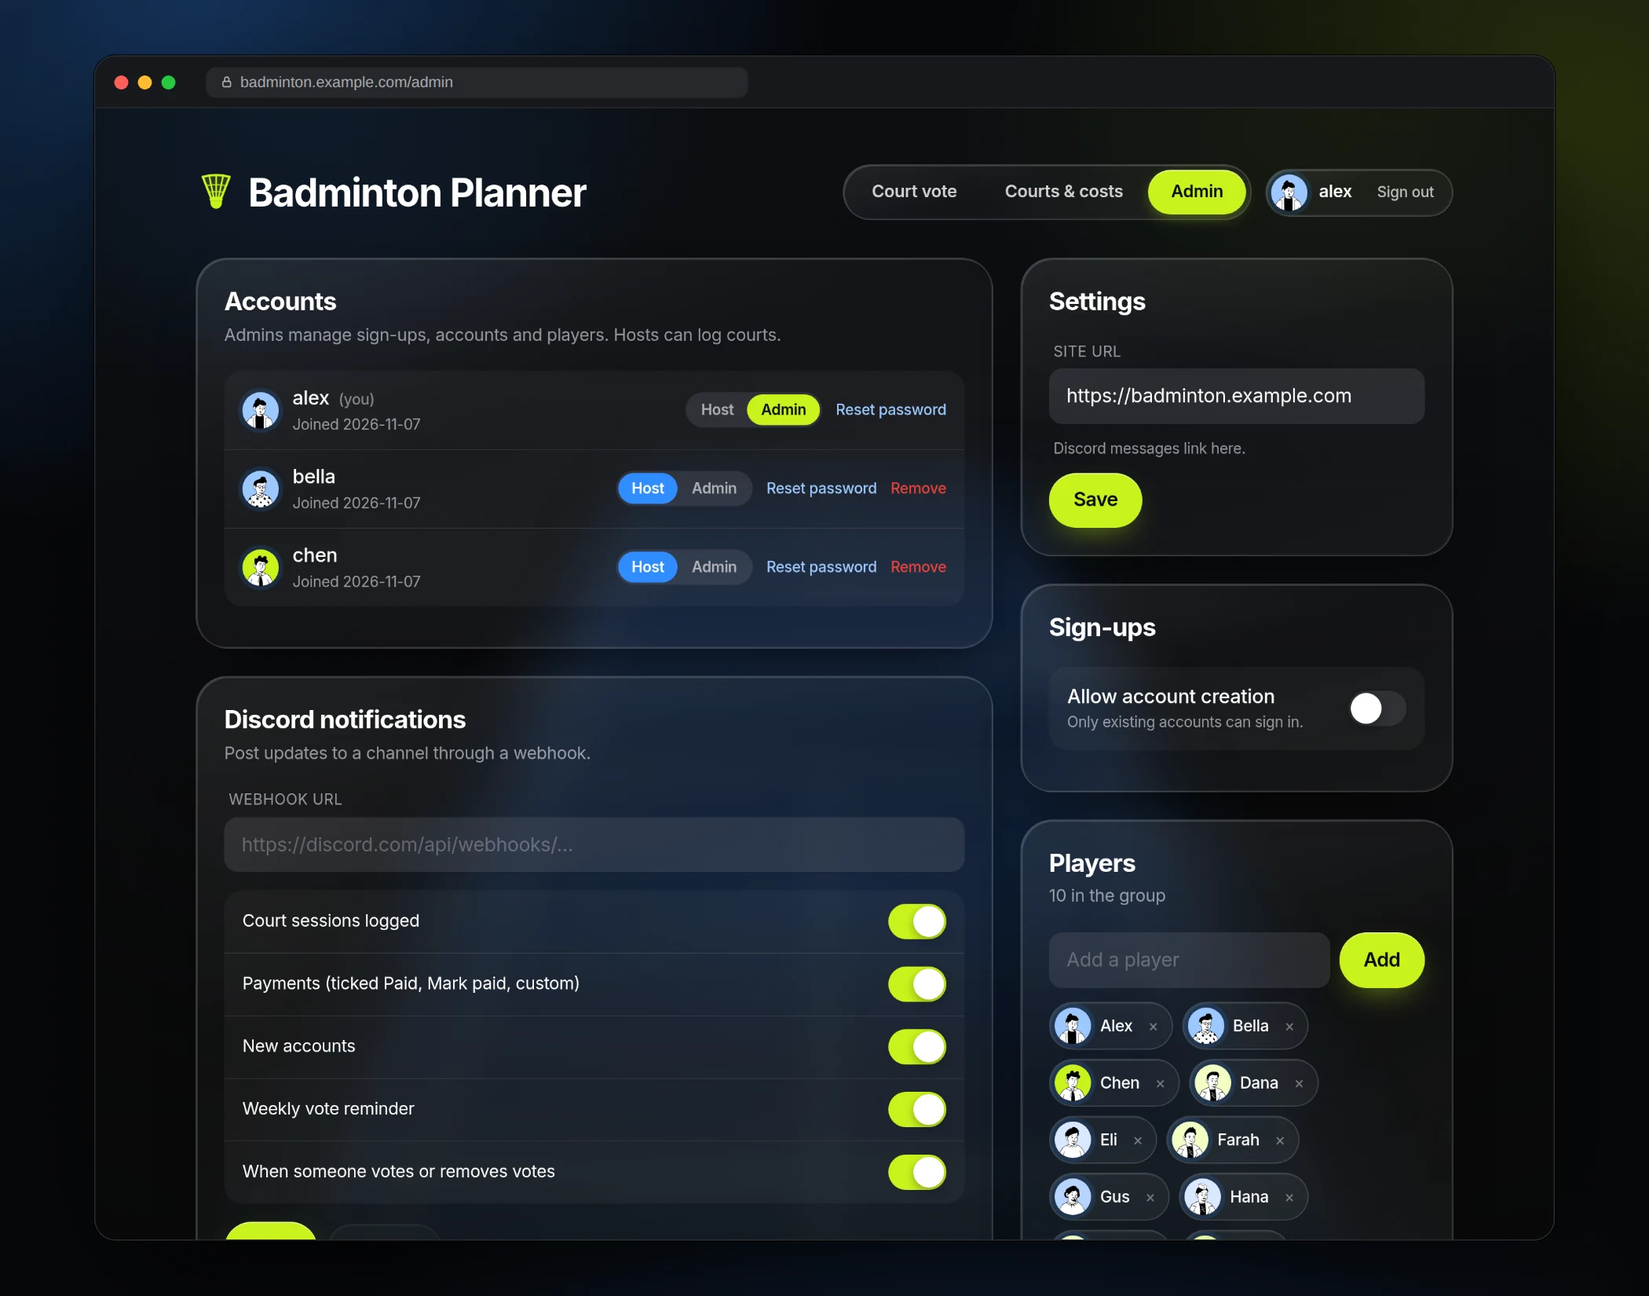
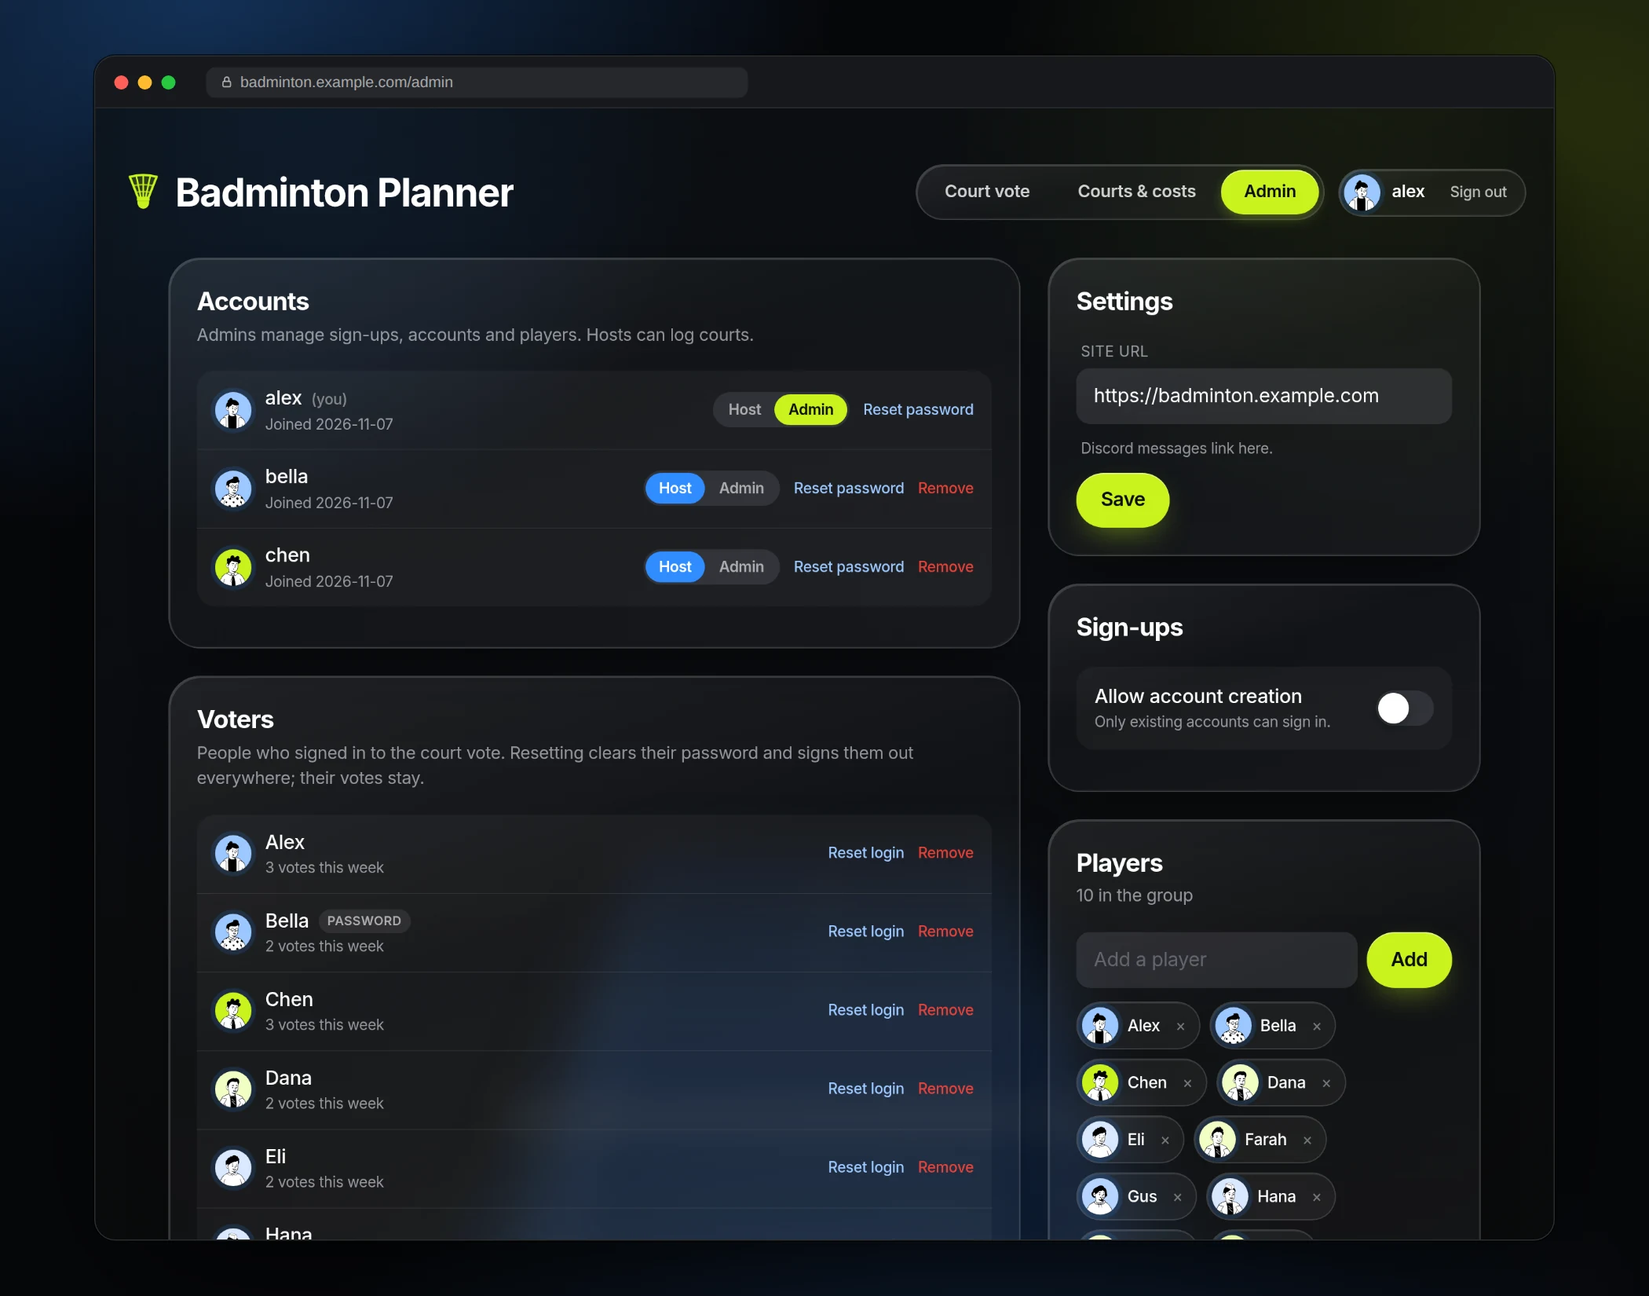
gradient and better desktop experience

diff --git a/components/VoteGrid.tsx b/components/VoteGrid.tsx
@@ -8,6 +8,28 @@ import { Avatar } from "./ui";
 
 type Toggle = { day: number; slot: SlotId; on: boolean };
 
+// Heat scale: blue (few votes) → teal → lime (everyone).
+const STOPS: [number, [number, number, number]][] = [
+  [0, [47, 140, 255]],
+  [0.5, [32, 201, 151]],
+  [1, [200, 243, 29]],
+];
+
+/** Fill for a slot where `ratio` = share of this week's voters who picked it. */
+export function heat(ratio: number): { background: string; dark: boolean } {
+  if (ratio <= 0) return { background: "rgb(255 255 255 / 0.025)", dark: false };
+  const r = Math.min(1, ratio);
+  const i = r <= STOPS[1][0] ? 0 : 1;
+  const [a, ca] = STOPS[i];
+  const [b, cb] = STOPS[i + 1];
+  const t = (r - a) / (b - a);
+  const [red, green, blue] = ca.map((c, k) => Math.round(c + (cb[k] - c) * t));
+  const alpha = 0.2 + 0.8 * r;
+  return { background: `rgb(${red} ${green} ${blue} / ${alpha.toFixed(2)})`, dark: r >= 0.7 };
+}
+
+const LEGEND = `linear-gradient(90deg, ${[0.15, 0.5, 1].map((r) => heat(r).background).join(", ")})`;
+
 export function VoteGrid({ week, today, votes, me }: { week: string; today: string; votes: Vote[]; me: Voter | null }) {
   const [pending, startTransition] = useTransition();
   const [optimistic, apply] = useOptimistic(votes, (current: Vote[], t: Toggle) =>
@@ -30,6 +52,18 @@ export function VoteGrid({ week, today, votes, me }: { week: string; today: stri
 
   return (
     <div className={`space-y-2.5 ${pending ? "cursor-progress" : ""}`}>
+      <div className="flex flex-wrap items-center justify-between gap-x-4 gap-y-2 px-1 pb-1 text-[12px] text-white/55">
+        <span className="flex items-center gap-2">
+          Fewer
+          <span aria-hidden className="h-2.5 w-28 rounded-full" style={{ background: LEGEND }} />
+          More votes
+        </span>
+        {me && (
+          <span className="flex items-center gap-1.5">
+            <span aria-hidden className="h-3 w-3 rounded-[4px] border-2 border-volt" /> Your picks
+          </span>
+        )}
+      </div>
       <div className="grid grid-cols-[64px_1fr_1fr] gap-2.5 px-1 text-center text-xs font-medium uppercase tracking-wider text-white/40 sm:grid-cols-[76px_1fr_1fr]">
         <span />
         {SLOTS.map((s) => <span key={s.id}>{s.label}</span>)}
@@ -58,6 +92,7 @@ export function VoteGrid({ week, today, votes, me }: { week: string; today: stri
               const mine = !!me && people.some((p) => p.voterId === me.id);
               const ratio = voterCount ? people.length / voterCount : 0;
               const top = people.length > 0 && people.length === best;
+              const fill = heat(ratio);
               return (
                 <button
                   key={s.id}
@@ -66,32 +101,37 @@ export function VoteGrid({ week, today, votes, me }: { week: string; today: stri
                   onClick={() => onToggle(d, s.id, !mine)}
                   aria-pressed={mine}
                   aria-label={`${dayName} ${s.label}: ${people.length} available${mine ? ", including you" : ""}`}
-                  style={mine ? undefined : { backgroundColor: `rgb(47 140 255 / ${people.length ? 0.08 + ratio * 0.3 : 0.025})` }}
+                  style={{ background: fill.background }}
                   className={`flex min-h-[92px] flex-col justify-between gap-2 rounded-[26px] border p-3 text-left transition disabled:cursor-default sm:p-3.5 ${
+                    fill.dark ? "text-ink" : "text-white"
+                  } ${
                     mine
-                      ? "border-volt bg-volt text-ink shadow-[0_12px_30px_-12px_rgb(200_243_29/0.6)]"
+                      ? "border-volt ring-2 ring-volt/60 ring-offset-2 ring-offset-[rgb(21_24_31)] shadow-[0_12px_30px_-12px_rgb(200_243_29/0.6)]"
                       : "border-white/8 enabled:hover:border-white/25"
                   }`}
                 >
                   <span className="flex w-full items-start justify-between gap-2">
                     <span className="font-rounded text-3xl font-semibold leading-none tracking-[-0.02em] tabular-nums">{people.length}</span>
-                    {top && (
-                      <span
-                        className={`flex items-center gap-1 rounded-full px-2 py-1 text-[10px] font-bold uppercase tracking-wider ${
-                          mine ? "bg-ink/90 text-volt" : "bg-black/40 text-volt"
-                        }`}
-                      >
-                        <span className="h-1.5 w-1.5 rounded-full bg-volt" />
-                        Top
-                      </span>
-                    )}
+                    <span className="flex flex-wrap justify-end gap-1">
+                      {mine && (
+                        <span className={`rounded-full px-2 py-1 text-[10px] font-bold uppercase tracking-wider ${fill.dark ? "bg-ink text-volt" : "bg-volt text-ink"}`}>
+                          ✓ You
+                        </span>
+                      )}
+                      {top && (
+                        <span className="flex items-center gap-1 rounded-full bg-ink/85 px-2 py-1 text-[10px] font-bold uppercase tracking-wider text-volt">
+                          <span className="h-1.5 w-1.5 rounded-full bg-volt" />
+                          Top
+                        </span>
+                      )}
+                    </span>
                   </span>
                   <span className="flex flex-wrap gap-1">
                     {people.map((p) => (
                       <span
                         key={p.voterId}
                         className={`flex items-center gap-1 rounded-full py-0.5 pl-0.5 pr-2 text-[11px] font-medium leading-tight ${
-                          mine ? "bg-ink/12 text-ink" : "bg-cobalt/25 text-cobalt-soft"
+                          fill.dark ? "bg-ink/12 text-ink" : "bg-black/25 text-white/90"
                         }`}
                       >
                         <Avatar name={p.name} size="xs" />

diff --git a/components/AttendanceGrid.tsx b/components/AttendanceGrid.tsx
@@ -110,10 +110,10 @@ export function AttendanceGrid({
             <table className="w-max min-w-full border-separate border-spacing-0 text-sm">
               <thead>
                 <tr className="text-left text-[13px] uppercase tracking-wide text-[rgb(235_235_245/0.6)]">
-                  <th className={`${sticky} min-w-[124px] py-2 pl-5 pr-2 font-medium sm:min-w-[150px] sm:pl-6 sm:pr-3`}>Session</th>
+                  <th className={`${sticky} min-w-[124px] py-2 pl-5 pr-2 font-medium sm:min-w-[150px] sm:pl-6 sm:pr-3 lg:min-w-[230px]`}>Session</th>
                   <th className="hidden px-2 py-2 font-medium sm:table-cell" />
                   {players.map((p) => (
-                    <th key={p.id} className="min-w-[60px] px-1 py-2 text-center font-semibold normal-case tracking-normal text-white">
+                    <th key={p.id} className="min-w-[60px] px-1 py-2 text-center lg:min-w-[84px] lg:px-2 font-semibold normal-case tracking-normal text-white">
                       <div className="flex flex-col items-center gap-1">
                         <Avatar name={p.name} size="sm" />
                         {p.name}
@@ -128,7 +128,7 @@ export function AttendanceGrid({
                   {players.map((p) => {
                     const cents = owed.get(p.id) ?? 0;
                     return (
-                      <td key={p.id} className={`px-1 py-2.5 text-center font-rounded font-semibold tabular-nums ${cents ? "text-live" : "text-white/35"}`}>
+                      <td key={p.id} className={`px-1 py-2.5 text-center font-rounded lg:px-2 font-semibold tabular-nums ${cents ? "text-live" : "text-white/35"}`}>
                         {formatMoney(cents)}
                       </td>
                     );
@@ -143,7 +143,7 @@ export function AttendanceGrid({
                     <tr key={s.id} className="align-middle">
                       <td className={`${sticky} border-t border-white/8 py-3 pl-5 pr-2 sm:pl-6 sm:pr-3`}>
                         <div className="font-semibold tabular-nums">{s.date}</div>
-                        <div className="max-w-[110px] truncate text-xs text-white/50 sm:max-w-[160px]">{s.venue} · {s.courts}×{s.hours}h</div>
+                        <div className="max-w-[110px] truncate text-xs text-white/50 sm:max-w-[160px] lg:max-w-[260px]">{s.venue} · {s.courts}×{s.hours}h</div>
                         <div className="mt-1 text-xs tabular-nums text-white/70">
                           {formatMoney(s.costCents)} · <span className="text-volt">{formatMoney(each)} each</span>
                         </div>
@@ -158,7 +158,7 @@ export function AttendanceGrid({
                         const host = p.id === s.paidBy;
                         const paid = s.paidIds.includes(p.id);
                         return (
-                          <td key={p.id} className="border-t border-white/8 px-1 py-3">
+                          <td key={p.id} className="border-t border-white/8 px-1 py-3 lg:px-2 lg:py-3.5">
                             <div className="flex flex-col items-center gap-1.5">
                               <Check
                                 tone="played"

diff --git a/components/LoginForm.tsx b/components/LoginForm.tsx
@@ -20,7 +20,7 @@ export function LoginForm({ firstAccount, signupsOpen }: { firstAccount: boolean
           title="Create the admin account"
           subtitle="You're the first one here, so this account will manage hosts, players and sign-ups."
         >
-          <SignUpFields action={upAction} pending={upPending} error={upState?.error} cta="Create admin account" />
+          <SignUpFields action={upAction} pending={upPending} error={upState?.error} username={upState?.username} cta="Create admin account" />
         </Card>
       </>
     );
@@ -50,7 +50,7 @@ export function LoginForm({ firstAccount, signupsOpen }: { firstAccount: boolean
         {mode === "in" ? (
           <form action={inAction} className="space-y-4">
             <Field label="Username">
-              <input name="username" className="glass-input" autoComplete="username" required autoFocus />
+              <input name="username" defaultValue={inState?.username} className="glass-input" autoComplete="username" required autoFocus />
             </Field>
             <Field label="Password">
               <input name="password" type="password" className="glass-input" autoComplete="current-password" required />
@@ -61,7 +61,7 @@ export function LoginForm({ firstAccount, signupsOpen }: { firstAccount: boolean
             </button>
           </form>
         ) : signupsOpen ? (
-          <SignUpFields action={upAction} pending={upPending} error={upState?.error} cta="Create account" />
+          <SignUpFields action={upAction} pending={upPending} error={upState?.error} username={upState?.username} cta="Create account" />
         ) : (
           <p className="rounded-2xl bg-white/[0.04] px-4 py-6 text-center text-[15px] text-white/60">
             Account creation is turned off. Ask an admin to turn it on.
@@ -76,11 +76,13 @@ function SignUpFields({
   action,
   pending,
   error,
+  username,
   cta,
 }: {
   action: (form: FormData) => void;
   pending: boolean;
   error?: string;
+  username?: string;
   cta: string;
 }) {
   return (
@@ -88,6 +90,7 @@ function SignUpFields({
       <Field label="Username">
         <input
           name="username"
+          defaultValue={username}
           className="glass-input"
           autoComplete="username"
           required

diff --git a/app/login/actions.ts b/app/login/actions.ts
@@ -7,7 +7,8 @@ import { accountCount, endSession, signupsEnabled, startSession } from "@/lib/au
 import { checkPassword, hashPassword } from "@/lib/passwords";
 import { notify } from "@/lib/discord";
 
-export type AuthState = { error?: string } | undefined;
+/** `username` is echoed back so the form can keep it after an error. */
+export type AuthState = { error?: string; username?: string } | undefined;
 
 const USERNAME = /^[A-Za-z0-9._-]{3,32}$/;
 // Used when the username doesn't exist, so a failed login takes the same time.
@@ -21,7 +22,7 @@ export async function signIn(_: AuthState, form: FormData): Promise<AuthState> {
     .get(username) as { id: number; hash: string } | undefined;
 
   const ok = checkPassword(password, row?.hash ?? DUMMY_HASH) && !!row;
-  if (!ok) return { error: "Wrong username or password." };
+  if (!ok) return { error: "Wrong username or password.", username };
 
   await startSession(row.id);
   redirect("/");
@@ -33,9 +34,9 @@ export async function signUp(_: AuthState, form: FormData): Promise<AuthState> {
   const confirm = String(form.get("confirm") ?? "");
 
   if (!USERNAME.test(username))
-    return { error: "Usernames are 3–32 letters, numbers, dots, dashes or underscores." };
-  if (password.length < 8) return { error: "Use a password of at least 8 characters." };
-  if (password !== confirm) return { error: "The passwords don't match." };
+    return { error: "Usernames are 3–32 letters, numbers, dots, dashes or underscores.", username };
+  if (password.length < 8) return { error: "Use a password of at least 8 characters.", username };
+  if (password !== confirm) return { error: "The passwords don't match.", username };
 
   let id: number;
   try {
@@ -49,7 +50,7 @@ export async function signUp(_: AuthState, form: FormData): Promise<AuthState> {
     });
   } catch (e) {
     const msg = e instanceof Error ? e.message : String(e);
-    return { error: msg.includes("UNIQUE") ? "That username is taken." : msg };
+    return { error: msg.includes("UNIQUE") ? "That username is taken." : msg, username };
   }
 
   notify("accounts", () => ({ title: `👋 New account: ${username}`, description: "They can now log courts.", path: "/admin" }));

diff --git a/app/vote/actions.ts b/app/vote/actions.ts
@@ -8,7 +8,8 @@ import { queueVoteNotification } from "@/lib/discord";
 import { isIsoDate, mondayOf, SLOTS } from "@/lib/dates";
 import { checkPassword, getCurrentVoter, hashPassword, newToken, VOTER_COOKIE } from "@/lib/voters";
 
-export type SignInState = { error?: string } | undefined;
+/** `name` is echoed back so the form can keep it after an error. */
+export type SignInState = { error?: string; name?: string } | undefined;
 
 const ONE_YEAR = 60 * 60 * 24 * 365;
 
@@ -16,7 +17,7 @@ export async function signIn(_: SignInState, form: FormData): Promise<SignInStat
   const name = String(form.get("name") ?? "").trim();
   const password = String(form.get("password") ?? "");
   if (!name) return { error: "Enter your name." };
-  if (name.length > 40) return { error: "Keep your name under 40 characters." };
+  if (name.length > 40) return { error: "Keep your name under 40 characters.", name };
 
   const existing = db
     .prepare("SELECT id, password_hash AS hash, token FROM voters WHERE name = ?")
@@ -26,7 +27,7 @@ export async function signIn(_: SignInState, form: FormData): Promise<SignInStat
   if (existing) {
     // Same as when2meet: a name without a password can be picked up by anyone.
     if (existing.hash && !checkPassword(password, existing.hash)) {
-      return { error: `Wrong password for “${name}”. Ask an admin to reset it if you've forgotten.` };
+      return { error: `Wrong password for “${name}”. Ask an admin to reset it if you've forgotten.`, name };
     }
     // No password yet (new, or reset by an admin): whoever signs in can set one now.
     if (!existing.hash && password) {

diff --git a/components/SignInPanel.tsx b/components/SignInPanel.tsx
@@ -29,7 +29,7 @@ export function SignInPanel({ me }: { me: Voter | null }) {
     <Card title="Sign in to vote" subtitle="No account needed. Just pick a name for this browser.">
       <form action={action} className="space-y-3">
         <Field label="Your name">
-          <input name="name" className="glass-input" autoComplete="nickname" required maxLength={40} />
+          <input name="name" defaultValue={state?.name} className="glass-input" autoComplete="nickname" required maxLength={40} />
         </Field>
         <Field label="Password (optional)">
           <input name="password" type="password" className="glass-input" autoComplete="current-password" />

diff --git a/app/layout.tsx b/app/layout.tsx
@@ -20,7 +20,7 @@ export default function RootLayout({ children }: LayoutProps<"/">) {
     <html lang="en" className={`${inter.variable} h-full antialiased`}>
       <body className="relative min-h-full font-sans">
         <CourtBackground />
-        <main className="mx-auto w-full max-w-6xl px-4 pb-32 pt-8 sm:px-6 sm:pb-12 sm:pt-12">
+        <main className="mx-auto w-full max-w-[1480px] px-4 pb-32 pt-8 sm:px-6 sm:pb-12 sm:pt-12">
           <header className="mb-8 flex items-center justify-between gap-4">
             <div className="flex min-w-0 items-center gap-2 sm:gap-2.5">
               <ShuttleIcon className="h-8 w-8 shrink-0 sm:h-9 sm:w-9" />

diff --git a/app/vote/page.tsx b/app/vote/page.tsx
@@ -37,7 +37,7 @@ async function Vote({ searchParams }: Pick<PageProps<"/vote">, "searchParams">) 
   const weekLink = (w: string) => (w === current ? "/vote" : `/vote?week=${w}`);
 
   return (
-    <div className="grid gap-6 lg:grid-cols-[1fr_360px]">
+    <div className="mx-auto grid max-w-6xl gap-6 lg:grid-cols-[1fr_360px]">
       <Card
         title="When should we book courts?"
         subtitle={`${voters.length} ${voters.length === 1 ? "person has" : "people have"} voted this week`}

diff --git a/app/page.tsx b/app/page.tsx
@@ -38,7 +38,7 @@ async function Dashboard() {
     <div className="space-y-6">
       <AttendanceGrid sessions={sessions} players={players} canEdit={canEdit} isAdmin={account?.role === "admin"} />
 
-      <div className="grid gap-6 lg:grid-cols-[1fr_360px]">
+      <div className="grid gap-6 lg:grid-cols-[1fr_400px]">
         <BalancesTable balances={balances} />
         <SettleUp transfers={transfers} players={players} today={today} canEdit={canEdit} />
       </div>

diff --git a/app/admin/page.tsx b/app/admin/page.tsx
@@ -62,7 +62,7 @@ async function Admin() {
   }));
 
   return (
-    <div className="grid gap-6 lg:grid-cols-[1fr_380px]">
+    <div className="mx-auto grid max-w-6xl gap-6 lg:grid-cols-[1fr_380px]">
       <div className="min-w-0 space-y-6">
         <AccountsPanel accounts={accounts} meId={me.id} />
         <VotersPanel voters={voters} />

diff --git a/README.md b/README.md
@@ -6,13 +6,13 @@ Vote on court times, log court bookings, and keep track of who owes whom. Built 
 
 ## Features
 
-- **Court vote** (`/vote`): a when2meet-style poll for Mon–Fri, 7–9 pm or 8–10 pm. Anyone can vote by signing in with just a name and an optional password; no account is needed.
+- **Court vote** (`/vote`): a when2meet-style poll for Mon–Fri, 7–9 pm or 8–10 pm. Anyone can vote by signing in with just a name and an optional password; no account is needed. Slots are coloured from blue to lime as more people pick them.
 - **Court log checklist**: like the old spreadsheet. Each session has a *Played* and a *Paid* checkbox per person, and a **Total owed** row adds up each person's unpaid shares. Ticking *Paid* counts as paying that share back to the host (whoever booked).
 - **Money owed**, **Settle up** (the fewest payments that clear every balance) and **payment history**.
 - **Accounts**:
   - The first account created becomes the **admin**.
   - Any signed-in account (a **host**) can log courts and tick boxes.
-  - Admins manage accounts, players, whether new accounts can be created, and Discord notifications. They can also **edit a logged session's details** (date, venue, courts, hours, cost, who paid, notes) from the court log.
+  - Admins manage accounts, players, whether new accounts can be created, and Discord notifications. They can also **edit a logged session's details** (date, venue, courts, hours, cost, who paid, notes) from the court log, and **reset voting logins**: this clears a voter's password and signs them out everywhere (their votes are kept), or removes the voter along with their votes.
   - Visitors who aren't signed in see the costs page read-only.
 - **Profile pictures** are generated from a SHA-256 hash of each person's name, so the same name always gets the same face. They use [Notionists](https://heyzoish.gumroad.com/l/notionists) by Zoish (CC0) via DiceBear.
 - **Discord notifications**: an admin pastes a webhook URL and picks which events to post:
@@ -25,7 +25,7 @@ Vote on court times, log court bookings, and keep track of who owes whom. Built 
 
 ## Screenshots
 
-**Court vote.** A when2meet-style poll. Your picks are lime, everyone else's show as a blue heatmap.
+**Court vote.** A when2meet-style poll. Each slot's colour runs from blue (a few votes) through teal to lime (the most), and your own picks are outlined.
 
 ![Court vote page](docs/screenshots/vote.webp)
 
@@ -33,7 +33,7 @@ Vote on court times, log court bookings, and keep track of who owes whom. Built 
 
 ![Courts and costs page](docs/screenshots/costs.webp)
 
-**Admin.** Accounts and roles, the site URL, the sign-up switch, players, and Discord notifications.
+**Admin.** Accounts and roles, voting logins, the site URL, the sign-up switch, players, and Discord notifications.
 
 ![Admin panel](docs/screenshots/admin.webp)
 
